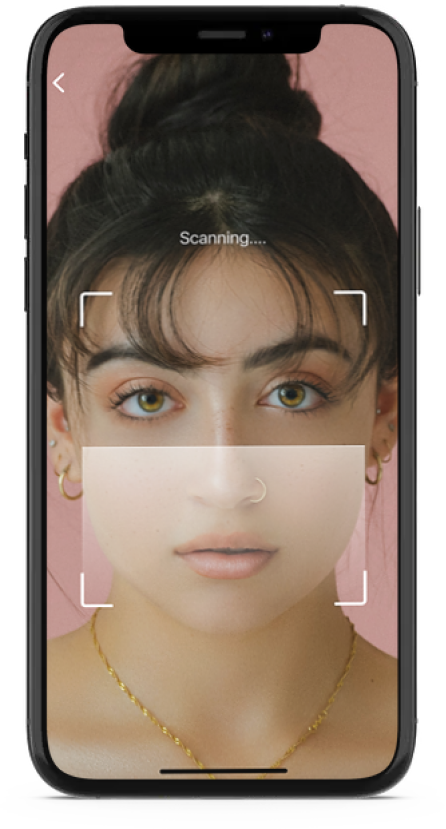
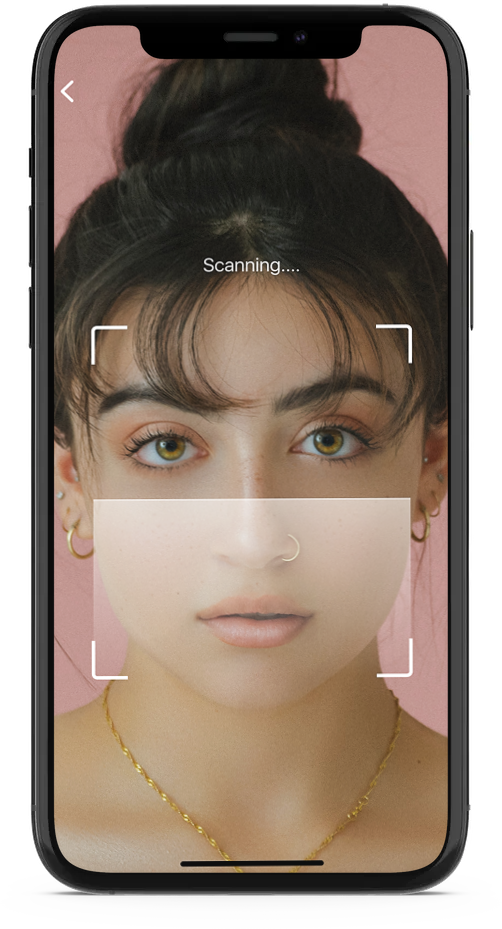
fix:modal on smaller screens

diff --git a/assets/css/styles.css b/assets/css/styles.css
@@ -58,6 +58,10 @@ body {
   color: #6d6875;
 }
 
+.icon {
+  width: 90%;
+}
+
 .form-control {
   height: auto;
   padding: 0.4rem 0.85rem;
@@ -239,6 +243,10 @@ body {
 .mySlides {
   display: none;
   justify-content: center;
+}
+
+.mySlides img {
+  width: 300px;
 }
 
 /* Next & previous buttons */
@@ -452,6 +460,7 @@ img.hover-shadow {
   .form-control {
     font-size: 16px;
     margin-bottom: 0.7rem;
+    padding: 0.5rem 0.65rem;
   }
 
   #girl img {
@@ -460,6 +469,11 @@ img.hover-shadow {
 
   .form-group {
     margin-bottom: 0.5rem;
+  }
+
+  .mySlides img {
+    margin-top: 50px;
+    width: 250px;
   }
 }
 

diff --git a/index.php b/index.php
@@ -106,10 +106,10 @@ $conn = null;
                             <div class="d-flex pb-3">
                                 <div>
                                     <img src="./assets/images/iphone-google-play-app-store-apple-mobile-apple-store-and-google-play-logo-png-clip-art-thumbnail 1.png"
-                                        alt=""></div>
-                                <div class="pl-3">
+                                        alt="andriod icon" class="icon"></div>
+                                <div class="pl-2">
                                     <img src="./assets/images/iphone-google-play-app-store-apple-mobile-apple-store-and-google-play-logo-png-clip-art-thumbnail 2.png"
-                                        alt=""></div>
+                                        alt="iphone icon" class="icon"></div>
                             </div>
                             <p class="pt-lg-4 pb-lg-2 subscribe-text">Subcribe to get a notifcation when we go live.</p>
 
@@ -146,7 +146,9 @@ $conn = null;
                 </div>
             </div>
             <div class="col-md-4 p-md-0 d-flex justify-content-center">
-                <img class="hover-shadow" data-aos="fade-left" src="./assets/images/mockup1.png" alt="app-screen"
+                <img class="hover-shadow" data-aos="fade-down"
+     data-aos-easing="linear"
+     data-aos-duration="1500" src="./assets/images/mockup1.png" alt="app-screen"
                     id="mockup1" onclick="openModal();currentSlide(1)">
             </div>
         </div>
@@ -165,7 +167,9 @@ $conn = null;
             <div class="d-md-flex img-column column-1">
                 <img class="mockup-img hover-shadow" data-aos="fade-right" src="./assets/images/mockup2.png"
                     alt="screen2" id="mockup2" onclick="openModal();currentSlide(2)">
-                <p class="mt-md-5 pt-5 pr-md-2 pl-md-5"><b> Dr. Miracle </b>will do a quick scan of
+                <p class="mt-md-5 pt-5 pr-md-2 pl-md-5" data-aos="fade-down"
+     data-aos-offset="300"
+     data-aos-easing="ease-in-sine"><b> Dr. Miracle </b>will do a quick scan of
                     your face and give analysis of your
                     face.</p>
             </div>
@@ -173,7 +177,9 @@ $conn = null;
             <div class="d-md-flex img-column column-2">
                 <img class="mockup-img hover-shadow" data-aos="fade-up" src="./assets/images/mockup3.png" alt="screen3"
                     id="mockup3" onclick="openModal();currentSlide(3)">
-                <p class="mt-md-5 pt-5 pr-md-2 pl-md-5"><b>Dr. Miracle</b> will now give you product
+                <p class="mt-md-5 pt-5 pr-md-2 pl-md-5" data-aos="fade-left"
+     data-aos-offset="300"
+     data-aos-easing="ease-in-sine"><b>Dr. Miracle</b> will now give you product
                     recommendations for each ailment.</p>
             </div>
         </div>
@@ -189,23 +195,31 @@ $conn = null;
             </div>
 
             <div class="d-md-flex img-column column-3">
-                <p class="mt-md-5 pt-5 pl-2 d-md-block d-none">For every product recommendation,
+                <p class="mt-md-5 pt-5 pl-2 d-md-block d-none" data-aos="fade-down"
+     data-aos-offset="300"
+     data-aos-easing="ease-in-sine">For every product recommendation,
                     <b>Dr. Miracle</b> will redirect you to an online
                     store that has products.</p>
                 <img class="mockup-img hover-shadow" data-aos="fade-left" src="./assets/images/mockup4.png"
                     alt="screen2" id="mockup4" onclick="openModal();currentSlide(4)">
-                    <p class="mt-md-5 pt-5 pl-2 d-md-none d-block">For every product recommendation,
+                    <p class="mt-md-5 pt-5 pl-2 d-md-none d-block" data-aos="fade-down"
+     data-aos-offset="300"
+     data-aos-easing="ease-in-sine">For every product recommendation,
                     <b>Dr. Miracle</b> will redirect you to an online
                     store that has products.</p>
             </div>
 
             <div class="d-md-flex img-column column-4">
-                <p class="mt-md-5 pt-5 pl-2 d-md-block d-none"><b>Dr. Miracle</b> will also track the usage
+                <p class="mt-md-5 pt-5 pl-2 d-md-block d-none" data-aos="fade-right"
+     data-aos-offset="300"
+     data-aos-easing="ease-in-sine"><b>Dr. Miracle</b> will also track the usage
                     of every skincare product you register
                     into the App. A daily routine will be
                     designed for each product’s dosage.</p><img class="mockup-img hover-shadow" data-aos="fade-up"
                     src="./assets/images/mockup5.png" alt="screen3" id="mockup5" onclick="openModal();currentSlide(5)">
-                    <p class="mt-md-5 pt-5 pl-2 d-md-none d-block"><b>Dr. Miracle</b> will also track the usage
+                    <p class="mt-md-5 pt-5 pl-2 d-md-none d-block" data-aos="fade-right"
+     data-aos-offset="300"
+     data-aos-easing="ease-in-sine"><b>Dr. Miracle</b> will also track the usage
                     of every skincare product you register
                     into the App. A daily routine will be
                     designed for each product’s dosage.</p>
@@ -251,32 +265,32 @@ $conn = null;
 
             <div class="mySlides">
                 <div class="numbertext">1 / 6</div>
-                <img src="./assets/images/mockup1.png" style="width:320px">
+                <img src="./assets/images/mockup1.png">
             </div>
 
             <div class="mySlides">
                 <div class="numbertext">2 / 6</div>
-                <img src="./assets/images/mockup2.png" style="width:320px">
+                <img src="./assets/images/mockup2.png">
             </div>
 
             <div class="mySlides">
                 <div class="numbertext">3 / 6</div>
-                <img src="./assets/images/mockup3.png" style="width:320px">
+                <img src="./assets/images/mockup3.png">
             </div>
 
             <div class="mySlides">
                 <div class="numbertext">4 / 6</div>
-                <img src="./assets/images/mockup4.png" style="width:320px">
+                <img src="./assets/images/mockup4.png">
             </div>
 
             <div class="mySlides">
                 <div class="numbertext">5 / 6</div>
-                <img src="./assets/images/mockup5.png" style="width:320px">
+                <img src="./assets/images/mockup5.png">
             </div>
 
             <div class="mySlides">
                 <div class="numbertext">6 / 6</div>
-                <img src="./assets/images/mockup6.png" style="width:320px">
+                <img src="./assets/images/mockup6.png">
             </div>
 
 
